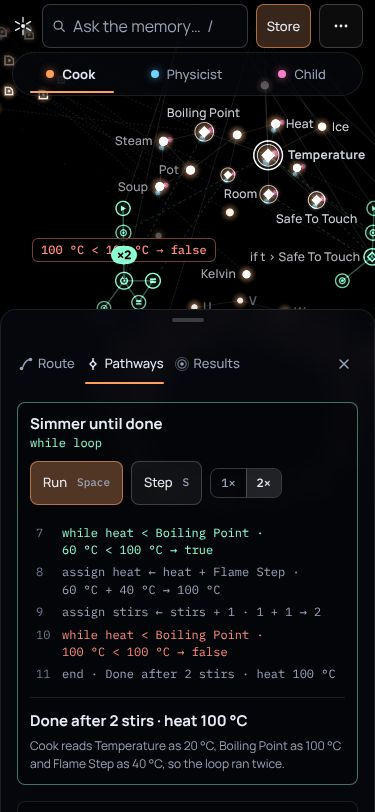
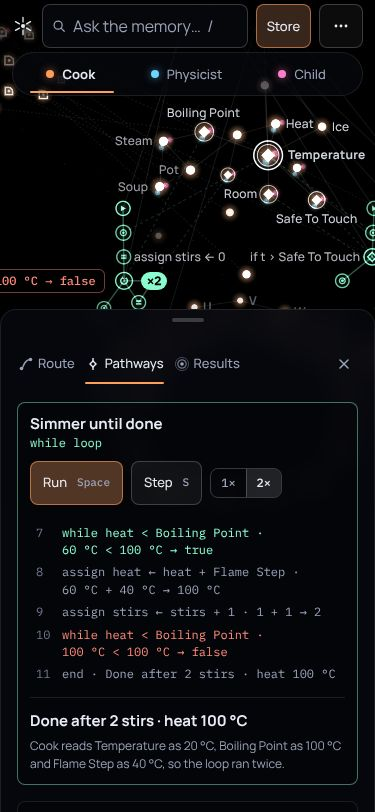
M-0002: ship conditions 1-3 (F-032..F-034): chip owners and stored things named, loop badge clear, e2e asserts
Claude-Session: https://claude.ai/code/session_01WqXox6S8VfWSJDSPs8yKAW

Changed region(s): [[0.0, 0.2771, 0.616, 0.3695]]

diff --git a/projects/constellation/src/view/renderer.ts b/projects/constellation/src/view/renderer.ts
@@ -1347,6 +1347,7 @@ export const createRenderer: CreateRenderer = ({ container, reducedMotion }) => 
     }
   }
 
+  let lastCores: Array<{ x: number; y: number; r: number; id: string }> = [];
   function placeOverlay(now: number, kDist: number, ghostR: number, ghostExpanded: boolean): void {
     const items: OverlayItem[] = [];
     const selNbrs = selected ? nodes.get(selected)?.nbrs : undefined;
@@ -1384,6 +1385,9 @@ export const createRenderer: CreateRenderer = ({ container, reducedMotion }) => 
       const act = activation?.get(n.id);
       let pr = 10 + Math.min(n.degree, 30) * 0.5 + (n.degree >= 8 && !n.road ? 20 : 0); // hubs name themselves first (F-031)
       if (n.road) pr = trails.length ? 75 : 50;
+      // Named first: a star whose ghost chips are showing (its chips need an owner) and a thing the
+      // Owner stored recently (ship conditions 1 and 2). Both outrank the chips themselves (85).
+      if (chipNodes.has(n.id) || n.data.recent) pr = Math.max(pr, 86);
       if (selNbrs?.has(n.id)) pr = Math.max(pr, 60);
       if (act !== undefined && act <= 1) pr = act === 0 ? 80 : 70;
       if (n.id === hovered) pr = 90;
@@ -1408,7 +1412,7 @@ export const createRenderer: CreateRenderer = ({ container, reducedMotion }) => 
         // Only the selected, hovered or route-named light's label sits over other cores outright. Hubs
         // (degree ≥ 8) take a clear side when one exists and otherwise still keep their name (F-030, F-031).
         overCores: pr >= 90,
-        overCoresFallback: !n.road && n.degree >= 8,
+        overCoresFallback: !n.road && (n.degree >= 8 || chipNodes.has(n.id) || !!n.data.recent),
         nodeId: n.id,
       });
       // Ghost chips when expanded; the active value sits on top (never as a ghost)
@@ -1474,7 +1478,7 @@ export const createRenderer: CreateRenderer = ({ container, reducedMotion }) => 
     }
     for (const [id, count] of loopBadges) {
       const n = nodes.get(id);
-      if (n?.onScreen && count > 0) items.push({ key: 'b:' + id, kind: 'badge', text: `×${count}`, x: n.sx, y: n.sy, offset: n.pxR * 1.6 + 8, anchors: ['above', 'right', 'below'], priority: 290, opacity: 1, force: true });
+      if (n?.onScreen && count > 0) items.push({ key: 'b:' + id, kind: 'badge', text: `×${count}`, x: n.sx, y: n.sy, offset: n.pxR * 1.6 + 8, anchors: ['right', 'above', 'below', 'left'], priority: 290, opacity: 1, force: true });
     }
     if (readSpark) {
       const n = nodes.get(readSpark.to);
@@ -1505,6 +1509,7 @@ export const createRenderer: CreateRenderer = ({ container, reducedMotion }) => 
       });
     }
     const cores: Array<{ x: number; y: number; r: number; id: string }> = [];
+    lastCores = cores;
     for (const n of order) if (n.onScreen && n.bright > 0.1) cores.push({ id: n.id, x: n.sx, y: n.sy, r: (n.id === selected ? Math.max(n.pxR * 2.4, n.pxR + 7) : Math.max(3, n.pxR * (n.data.kind === 'pathway' ? 1.5 : n.data.kind === 'variable' ? 1.8 : 1))) + 1 }); // variables draw a ring at 1.8r (F-031)
     // Keep labels below the top bar (56 px; 100 px with the 375 lens row).
     overlay.place(items, cap, width, height, cores, width < 768 ? 104 : 60);
@@ -1571,6 +1576,8 @@ export const createRenderer: CreateRenderer = ({ container, reducedMotion }) => 
         ghostState: [...nodes.values()].some((n) => n.data.ghosts?.length) ? (lastState.ghostExpanded ? 'expanded' : 'rest') : 'none',
         labelsShown: overlay.labelsShown,
         labelRects: overlay.placed.filter((r) => r.kind === 'lbl').map((r) => ({ id: r.nodeId ?? r.key, x: r.x, y: r.y, w: r.w, h: r.h })),
+        overlayRects: overlay.placed.map((r) => ({ kind: r.kind, id: r.nodeId ?? r.key, x: r.x, y: r.y, w: r.w, h: r.h })),
+        coreCircles: lastCores.map((c) => ({ ...c })),
         hovered,
         selected,
         cameraDistance: rig.distance,

diff --git a/projects/constellation/tests/e2e/flows.spec.ts b/projects/constellation/tests/e2e/flows.spec.ts
@@ -1,6 +1,6 @@
 // The five flows (plan.md WO-003 [E1]–[E5]) at 1440×900, with the experience-spec frames F1–F12.
 import { expect, test } from './support/harness.ts';
-import { frames, idle, nodePoint, open, overlaps, pause, resume, setClock, state } from './support/app.ts';
+import { coresUnder, frames, idle, nodePoint, open, overlayOverlaps, overlaps, pause, resume, setClock, state } from './support/app.ts';
 
 test.describe.configure({ timeout: 120_000 });
 
@@ -86,6 +86,10 @@ test('[E2] perspective: Cook → Physicist morphs in ≤ 1.2 s and the ghosts sh
   const chips = (await page.locator('#stage .chip.on').allTextContents()).map((t) => t.replace(/\u00a0/g, ' '));
   expect(chips).toContain('20 °C');
   expect(chips).toContain('293 K');
+  // Ship condition 1: the disagreeing hubs are named while their chips show, and nothing overlaps.
+  const named5 = s.labelRects.map((r) => r.id);
+  for (const id of ['temperature', 'boiling-point', 'room']) expect(named5, `${id} named at F5`).toContain(id);
+  expect(overlayOverlaps(s)).toEqual([]);
   await shot('F5-morph-settled-1440');
   // Retracts after the held window.
   await setClock(page, t0 + 4000);
@@ -192,6 +196,8 @@ test('[E4] run pathway: Simmer loops twice under Cook and four times under Physi
   expect(s.loopBadge).toBe(1);
   await expect(page.locator('#stage .condchip.on')).toHaveText('60 °C < 100 °C → true');
   await expect(page.locator('#stage .badge.on')).toHaveText('×1');
+  // Ship condition 3: the loop badge touches no star core or ring.
+  expect(coresUnder(await state(page), 'badge')).toEqual([]);
   await expect(card.locator('li.cur')).toContainText('while heat < Boiling Point · 60 °C < 100 °C → true');
   await shot('F9-pulse-mid-loop-1440');
   await resume(page);
@@ -213,6 +219,7 @@ test('[E4] run pathway: Simmer loops twice under Cook and four times under Physi
   await expect(card.locator('.result .out')).toHaveText('Done after 4 stirs · heat 373 K');
   await expect(card.locator('.result .compare')).toHaveText('Cook: 2 stirs · Physicist: 4 stirs. Same pathway, different truths.');
   await expect(page.locator('#stage .badge.on')).toHaveText('×4');
+  expect(coresUnder(await state(page), 'badge')).toEqual([]);
   await shot('F10-pathway-result-1440');
   await scan();
 
@@ -268,6 +275,10 @@ test('[E5] store + find: store Tea, link it to Temperature, reload, search finds
   expect(after.id).not.toBeNull();
   expect(Math.abs(after.pos.x - teaPos.x)).toBeLessThan(0.01);
   await expect(page.locator('.toast', { hasText: 'Welcome back. 89 lights. The 1 you stored is where you left it.' })).toBeVisible({ timeout: 6000 });
+  // Ship condition 2: the stored thing is named in the default overview after reload.
+  await page.waitForFunction((id) => window.__constellation!.state!().labelRects.some((r) => r.id === id), after.id, { timeout: 6000 });
+  expect(overlaps((await state(page)).labelRects)).toEqual([]);
+  await shot('F12-reload-1440');
   await page.keyboard.press('/');
   await page.keyboard.type('tea');
   // "tea" is also inside "Steam" (substring match), so Tea is one of the depth-0 matches.

diff --git a/projects/constellation/tests/e2e/support/app.ts b/projects/constellation/tests/e2e/support/app.ts
@@ -71,3 +71,25 @@ export function overlaps(rects: State['labelRects']): string[] {
   }
   return bad;
 }
+
+/** Every placed overlay item (labels, chips, badges…) pairwise clear of the others. */
+export function overlayOverlaps(s: State): string[] {
+  expect(s.overlayRects?.length ?? 0, 'overlay rects exposed').toBeGreaterThan(10);
+  return overlaps((s.overlayRects ?? []).map((r) => ({ id: `${r.kind}:${r.id}`, x: r.x, y: r.y, w: r.w, h: r.h })));
+}
+
+/** Star footprints (core, or pathway / variable ring) that a rectangle of the given kind touches. */
+export function coresUnder(s: State, kind: string): string[] {
+  const hit: string[] = [];
+  const items = (s.overlayRects ?? []).filter((o) => o.kind === kind);
+  expect(items.length, `a placed ${kind}`).toBeGreaterThan(0);
+  expect(s.coreCircles?.length ?? 0, 'star footprints exposed').toBeGreaterThan(10);
+  for (const r of items) {
+    for (const c of s.coreCircles ?? []) {
+      const nx = Math.max(r.x, Math.min(c.x, r.x + r.w));
+      const ny = Math.max(r.y, Math.min(c.y, r.y + r.h));
+      if (Math.hypot(c.x - nx, c.y - ny) < c.r) hit.push(`${r.id}@${c.id}`);
+    }
+  }
+  return hit;
+}

diff --git a/projects/constellation/src/view/contracts.ts b/projects/constellation/src/view/contracts.ts
@@ -17,6 +17,8 @@ export interface SceneNode {
   op?: PathwayOp;
   /** WO-003 addition: ghost chip texts keyed by perspective (formatted values). */
   ghostText?: Partial<Record<PerspectiveId, string>>;
+  /** CEO addition (ship condition 2): one of the newest things stored after the memory began; always named. */
+  recent?: boolean;
 }
 
 /** WO-003 addition: how an edge is drawn (experience.md §7 edge table). */
@@ -129,6 +131,9 @@ export interface RenderDebugState {
   ghostState: 'rest' | 'expanded' | 'none';
   labelsShown: number;
   labelRects: Array<{ id: NodeId; x: number; y: number; w: number; h: number }>;
+  /** CEO addition (ship conditions): every placed overlay item, and the star footprints labels avoid. */
+  overlayRects?: Array<{ kind: string; id: string; x: number; y: number; w: number; h: number }>;
+  coreCircles?: Array<{ id: NodeId; x: number; y: number; r: number }>;
   hovered: NodeId | null;
   selected: NodeId | null;
   cameraDistance: number;

diff --git a/projects/constellation/src/ui/scene.ts b/projects/constellation/src/ui/scene.ts
@@ -114,6 +114,11 @@ export class SceneBuilder {
     const lensColors: Record<PerspectiveId, string> = {};
     perspectives.forEach((p, i) => (lensColors[p.id] = lensColor(p, i)));
     const nodes: SceneNode[] = g.nodes().map((n) => this.sceneNode(n, lens, perspectives, pos));
+    // The newest things stored after the memory began (at most 5) are named in the sky (ship condition 2).
+    const all = g.nodes();
+    const first = Math.min(...all.map((n) => n.created));
+    const recent = new Set(all.filter((n) => n.created > first && n.kind !== 'pathway').sort((a, b) => b.created - a.created || (a.id < b.id ? -1 : 1)).slice(0, 5).map((n) => n.id));
+    for (const sn of nodes) if (recent.has(sn.id)) sn.recent = true;
     const total = perspectives.length;
     const relations: SceneRelation[] = visibleRelations(g, lens).map((r) => ({
       id: r.id,

diff --git a/projects/constellation/src/view/overlay.ts b/projects/constellation/src/view/overlay.ts
@@ -134,7 +134,9 @@ export class Overlay {
           // Never cross the viewport edge (8 px margin, F-026).
           if (p.x < 8 || p.y < minY || p.x + w > vw - 8 || p.y + h > vh - 8) continue;
           // Chips and labels keep off text, and off star cores unless allowed (F-020, F-031).
-          if (!it.force && overlaps(p.x, p.y, w, h, cores, it.nodeId)) continue;
+          // Forced items (badges, the condition chip, trail chips) also look for a clear spot first;
+          // they fall back to their first anchor only when none exists (ship condition 3).
+          if (overlaps(p.x, p.y, w, h, cores, it.nodeId)) continue;
           spot = p;
           break search;
         }

diff --git a/bureau/missions/M-0002-constellation/board/ship-director-vision.md b/bureau/missions/M-0002-constellation/board/ship-director-vision.md
@@ -1,0 +1,37 @@
+# Board review — ship — director-vision — round 1 — M-0002
+
+VERDICT: CONDITIONAL
+SCORE: 8.1 / 10
+
+## Rubric
+| # | Dimension | Score | Why |
+|---|---|---|---|
+| 1 | Fidelity | 8.5 | All four ideas are real, and I reproduced the exact verdicts myself: route 25→3, then learned to 1 hop; Simmer gives 2 stirs / 100 °C under Cook and 4 stirs / 373 K under Physicist; Tea survives a reload. F5's hubs have no names. |
+| 2 | Ambition & delight | 8.0 | The route race, the chord across the ring, the condition chip at the point of decision, and "Welcome back… Show Tea" all land. F1 is handsome but reads more as a diagram than a breathtaking sky. |
+| 3 | Craft & polish | 7.5 | 31/31 findings closed. Residuals: F5 hubs unlabelled, the ×4 badge sits on P3's ring (`W10`), Tea unlabelled after reload, and the Store name placeholder is near-invisible (`W12a`). |
+| 4 | Correctness & robustness | 8.5 | 85 unit tests and the hostile probes are closed. Live state matched the spec: lines 100/102/101, activation 2/4/12/11. |
+| 5 | Engineering quality | 8.0 | The code-reviewer passed it: a safe hand-written parser, one Dijkstra, a clean dispose, frozen contracts. |
+| 6 | Performance | 8.0 | Seed at 60 fps, about 1 ms per frame. At 500 nodes on software GL: median 16.7 ms, p95 33 ms. The search mark is 2.4 ms. |
+| 7 | Accessibility & comfort | 7.5 | axe is green and there is a full keyboard map. The results list mirrors the activation depths. Tab never enters the canvas. |
+| 8 | Evidence | 8.5 | Every frame-table moment has an e2e screenshot and the critic's measured crops. I re-rendered them independently. |
+
+## What I verified myself
+I built the product, served it on port 4182, and ran my own real-time Playwright walk with no paused clock (scratchpad `walk.mjs`). The console showed 0 errors. Screens are in `/tmp/claude-0/-home-user-Sandbox/33578c24-f78d-5138-8040-875dbed69def/scratchpad/shots/`.
+- **F1** (`W01`): true black, Heat at the centre, the flowcharts flanking it, the ring as a horizon. Pass.
+- **F4/F5** (`W04`, `W05`, `W05b`): the morph is clean with no pop, and the halos turn ice. The chips read 293 K / 20 °C / 2 · warm. **The star they orbit has no name until about 4 s**, so a stranger cannot tell whose truths these are.
+- **F6–F8** (`W06`–`W08`): the short trail visibly wins the race and the verdict is exact. Learn draws an A–Z chord across the empty ring. This is the best moment in the product.
+- **F9/F10** (`W09`, `W10`): the comet sits at P4 with its condition chip. The result card and the comparison sentence are exact.
+- **F11** (`W11`): the depth ripple reads; counts 2/4/12/11.
+- **F12** (`W12`–`W14`): Tea is born clear of Temperature. After reload the toast offers "Show Tea" and searching "tea" finds it, but Tea is unlabelled in the overview.
+- I also ran `?stress=500` and checked the 375 frame (`evidence/screens/F1-idle-375.jpg`).
+
+## Weighing the known S3s
+- **The F5 nameless hub becomes a condition.** It falls on Definition-of-exceptional #2: the values are readable but cannot be attributed to a star, and this is the thesis frame.
+- **Tea unlabelled after reload becomes a condition.** It falls on #6: the thing you stored should name itself in the sky.
+- **F12 Ice and Stove:** both were labelled in my run. I accept this as S3.
+
+## Conditions
+1. F5 (Physicist, t = 1400 ms, 1440): Temperature, Boiling Point and Room show their name labels while the ghosts are expanded. An e2e test asserts that the Temperature label is shown and that there are 0 text overlaps.
+2. After reload, the node the Owner stored (Tea) is labelled at the default overview. An e2e test in [E5] asserts it.
+3. F9/F10: the loop badge sits beside P4 and touches no node core or ring. An e2e test checks the badge rect against the projected cores.
+4. `npm run verify` is green, with new F5, F10 and reload frames in `evidence/screens/`.

diff --git a/bureau/missions/M-0002-constellation/log.md b/bureau/missions/M-0002-constellation/log.md
@@ -131,3 +131,12 @@ Chronological record kept by `bureau`. Append with `python3 bureau/bin/bureau lo
 - `2026-11-23T02:49:44Z` **polish-critic** — F-031 verified: Before: Temperature unlabelled at F12 900/2500/6000 ms, Stove label on its ring (evidence/critic/r2v/F12-900.jpg, evidence/critic/r2v/F12-settled-6000.jpg). After (8e80f44): 'Temperature' is labelled at 900/2500/6000 ms, left side 613-688 x 462-478, 15 px from its core, glyphs about 4 px clear of the Flame Step ring and the Pot core. It is also labelled after reload (right side). Stove's label no longer sits on Temperature. DOM audit at F1, F5 (15 chips), F12 and reload: labels over cores 0, text over text 0, chips over cores 0. evidence/critic/r2v/f031/F12-900.jpg, evidence/critic/r2v/f031/F12-900-x4.jpg, evidence/critic/r2v/f031/F12-6000.jpg, evidence/critic/r2v/f031/F12-reload.jpg, evidence/critic/r2v/f031/F1-1440.jpg, evidence/critic/r2v/f031/F5-1440.jpg
 - `2026-11-23T02:50:03Z` **ceo** — Phase remediation → **ship-review**
 - `2026-11-23T02:50:03Z` **ceo** — Convened 1× director-vision — ship vote, round 1
+- `2026-11-23T02:55:06Z` **director-vision** — ship gate r1: CONDITIONAL (8.1)
+- `2026-11-23T02:55:33Z` **director-vision** — F-032 [S2] filed: F5: Temperature, Boiling Point and Room unnamed while ghosts are expanded
+- `2026-11-23T02:55:33Z` **director-vision** — F-033 [S2] filed: A stored thing (Tea) has no name in the default overview after reload
+- `2026-11-23T02:55:33Z` **director-vision** — F-034 [S2] filed: Loop badge ×N touches P3/P4 rings
+- `2026-11-23T02:55:33Z` **ceo** — ship gate opened round 2 (earlier votes no longer count)
+- `2026-11-23T02:55:33Z` **ceo** — Phase ship-review → **remediation**
+- `2026-11-23T03:00:36Z` **ceo** — F-032 resolved: renderer: stars whose ghost chips show get label priority 86 (> chips 85) and a cores fallback. E2 asserts temperature, boiling-point, room in labelRects and no overlay overlaps. evidence/screens/F5-morph-settled-1440.jpg
+- `2026-11-23T03:00:36Z` **ceo** — F-033 resolved: scene.ts marks the ≤5 newest things stored after the memory began as recent (contracts SceneNode.recent); renderer names them first. E5 waits for Tea in labelRects after reload. evidence/screens/F12-reload-1440.jpg
+- `2026-11-23T03:00:36Z` **ceo** — F-034 resolved: overlay: forced items seek a clear spot (cores + text) before falling back; badge anchors right, above, below, left. E4 asserts coresUnder(badge) = [] at F9 and F10 (helpers fail if no badge or no footprints exposed). evidence/screens/F9-pulse-mid-loop-1440.jpg, F10-pathway-result-1440.jpg
